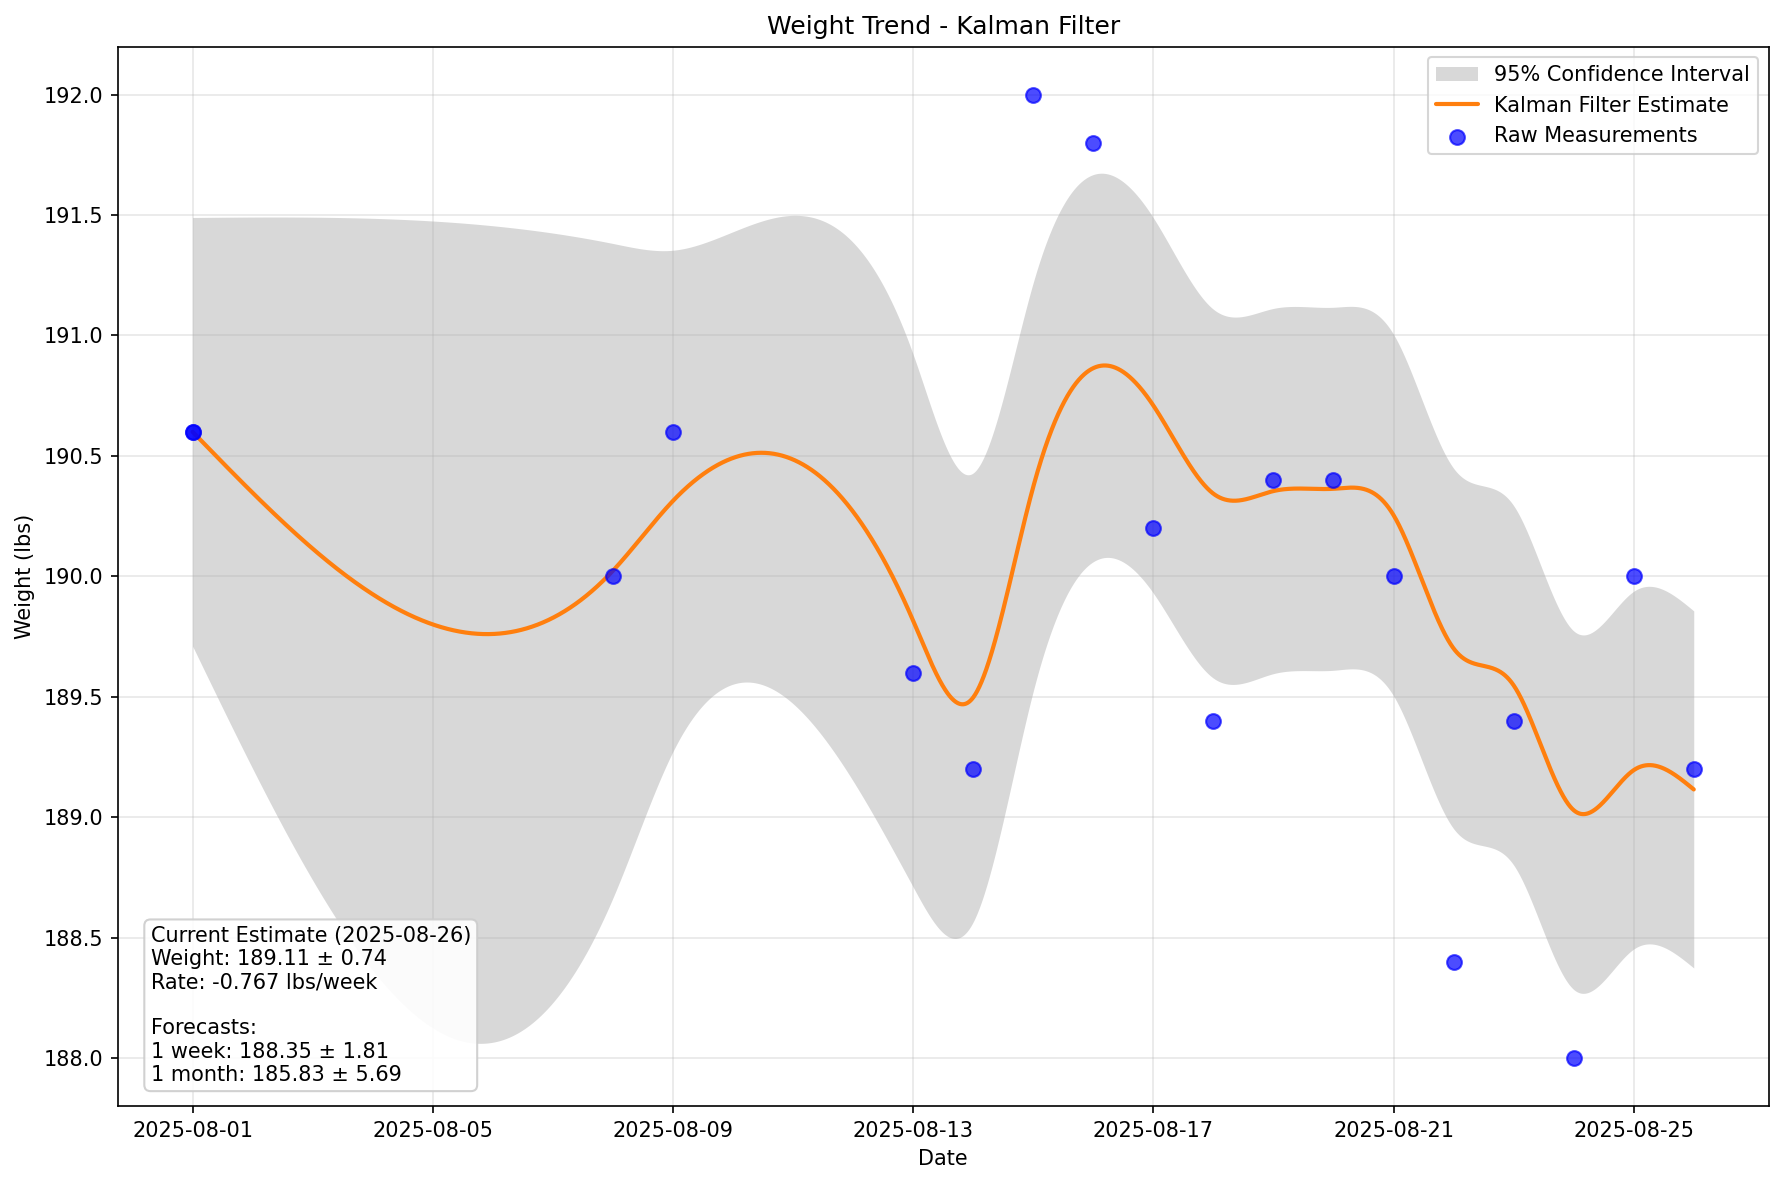
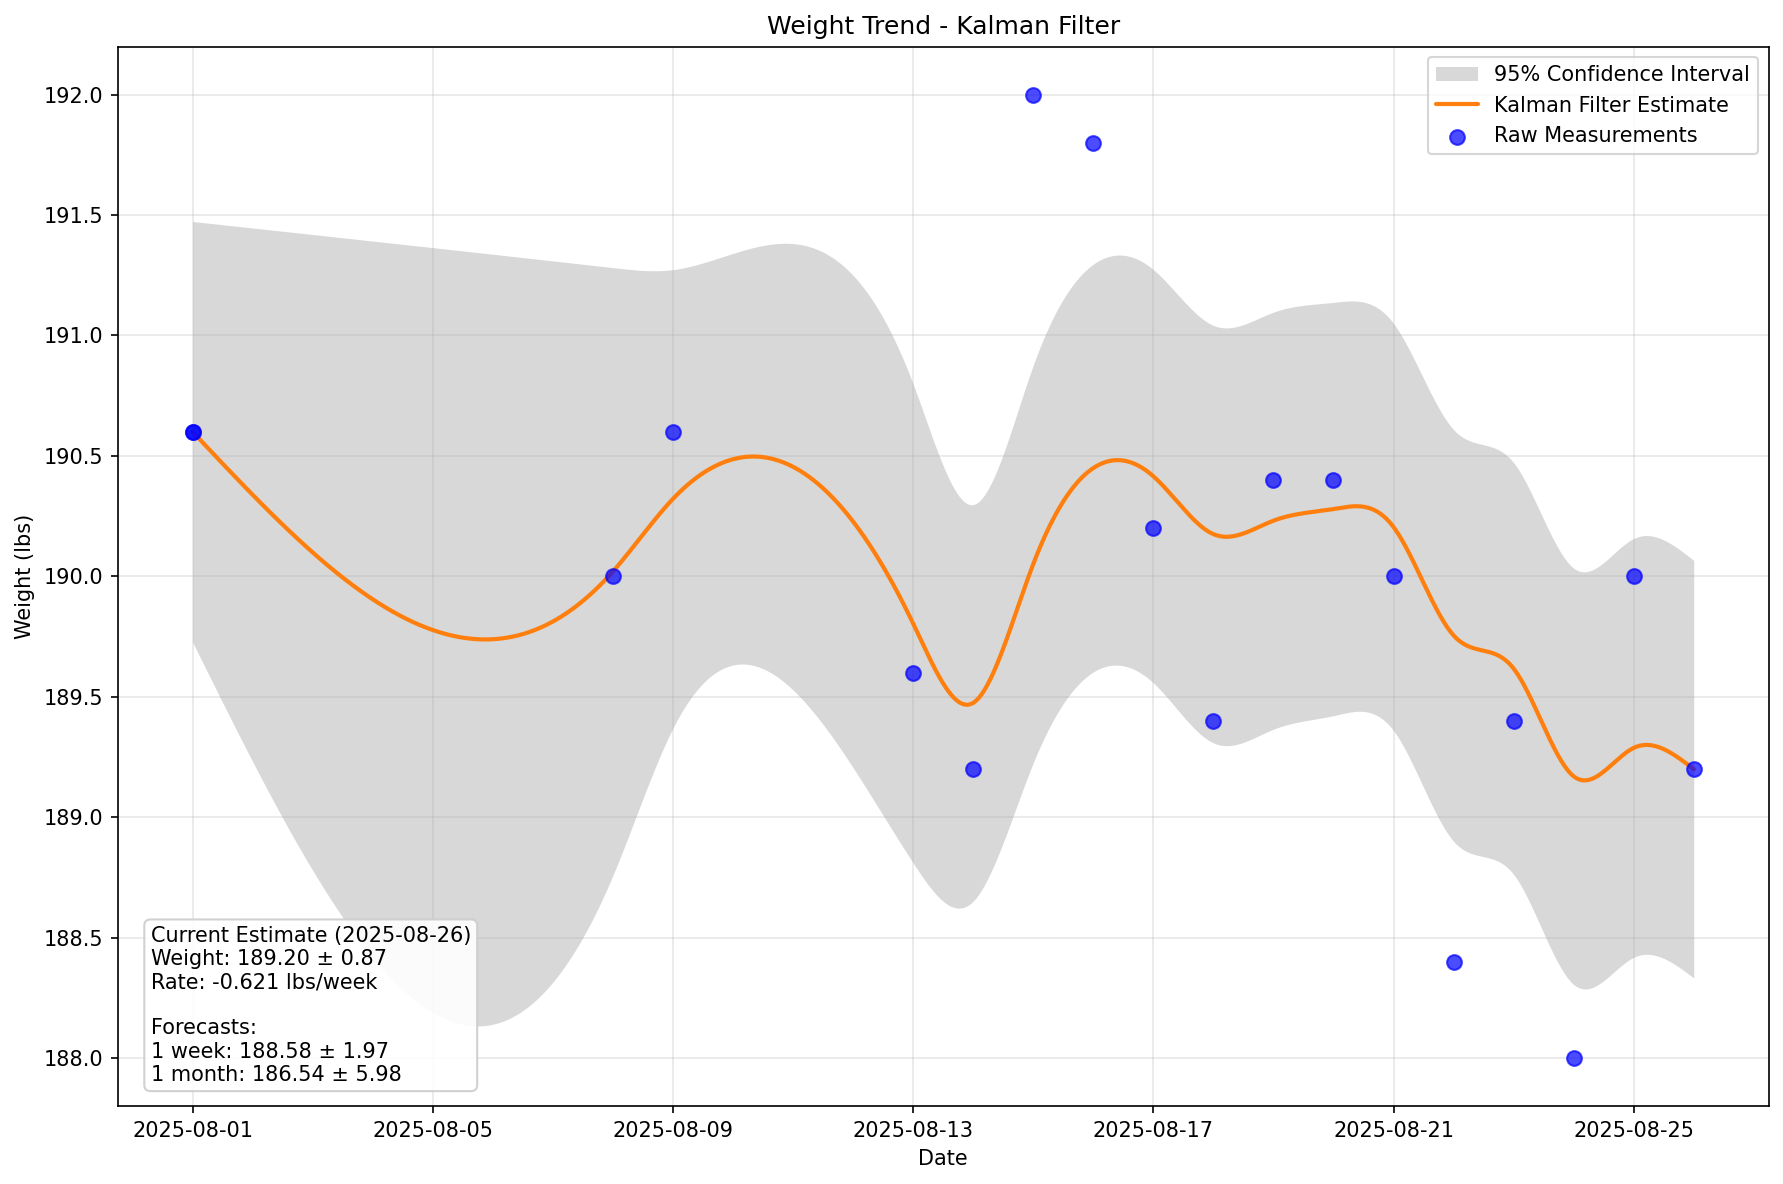
kalman filtering now the default

diff --git a/weight_tracker.py b/weight_tracker.py
@@ -338,7 +338,7 @@ def parse_args() -> argparse.Namespace:
     parser.add_argument("--half-life-days", type=float, default=7.0, help="Half-life for time weighting in regression. Default: 7")
     parser.add_argument("--no-plot", action="store_true", help="Do not generate plot image")
     parser.add_argument("--output", default="weight_trend.png", help="Output plot image path. Default: weight_trend.png")
-    parser.add_argument("--kalman-plot", action="store_true", help="Generate Kalman filter plot (kalman_weight_trend.png)")
+    parser.add_argument("--no-kalman-plot", action="store_true", help="Do not generate Kalman filter plot")
     parser.add_argument("--print-table", action="store_true", help="Print table of date, weight, EMA")
     # Body fat baseline parameters (used only when --kalman-plot is enabled)
     parser.add_argument("--bf-baseline-lean", type=float, default=150.0,
@@ -395,7 +395,7 @@ def main() -> None:
     print(f"  per day:  {slope_per_day:+.4f}")
     print(f"  per week: {slope_per_week:+.3f}")
     print(f"  per month:{slope_per_month:+.3f}")
-    print(f"Calorie deficit: {7*slope_per_day*3500:+.3f} calories/week")
+    print(f"Calorie deficit: {slope_per_day*3500:+.3f} calories/day")
 
     if args.print_table:
         print("\nDate,Weight,EMA")
@@ -410,15 +410,15 @@ def main() -> None:
             print(f"Failed to render plot: {e}")
     
     # Generate Kalman filter plot if requested
-    if args.kalman_plot:
+    if not args.no_kalman_plot:
         try:
             # Run Kalman filter
             kalman_states, kalman_dates = run_kalman_filter(entries)
             
             if kalman_states:
                 # Create Kalman filter plot
-                create_kalman_plot(entries, kalman_states, kalman_dates, "kalman_weight_trend.png")
-                print("Kalman filter plot saved to: kalman_weight_trend.png")
+                create_kalman_plot(entries, kalman_states, kalman_dates, args.output)
+                print("Kalman filter plot saved to: weight_trend.png")
                 
                 # Create body fat plot using Kalman smoothing
                 from kalman import create_bodyfat_plot_from_kalman
@@ -429,9 +429,9 @@ def main() -> None:
                         kalman_dates,
                         baseline_weight_lb=args.bf_baseline_weight,
                         baseline_lean_lb=args.bf_baseline_lean,
-                        output_path="kalman_bodyfat_trend.png",
+                        output_path="bodyfat_trend.png",
                     )
-                    print("Body fat plot saved to: kalman_bodyfat_trend.png")
+                    print("Body fat plot saved to: bodyfat_trend.png")
                 except Exception as e:
                     print(f"Failed to generate body fat plot: {e}")
                 
@@ -440,7 +440,7 @@ def main() -> None:
                 print(f"\n=== Kalman Filter Summary ===")
                 print(f"Current weight estimate: {latest_kalman.weight:.2f} ± {1.96 * (latest_kalman.weight_var**0.5):.2f}")
                 print(f"Current rate: {7*latest_kalman.velocity:+.3f} lbs/week")
-                print(f"Calorie deficit: {7*latest_kalman.velocity*3500:+.3f} calories/week")
+                print(f"Calorie deficit: {latest_kalman.velocity*3500:+.3f} calories/day")
                 
                 # Calculate forecasts
                 from kalman import WeightKalmanFilter

diff --git a/kalman.py b/kalman.py
@@ -65,6 +65,10 @@ class WeightKalmanFilter:
         # Measurement model and noise
         self.H = np.array([[1.0, 0.0]], dtype=float)
         self.R = np.array([[self.measurement_noise]], dtype=float)
+        # Adaptive measurement noise (EWMA on innovation variance)
+        self.R_adapt = float(self.measurement_noise)
+        self.R_alpha = 0.05
+        self.adaptive_measurement_noise = True
         
         # Expose a convenience dataclass mirror for external access
         self.state = KalmanState(
@@ -109,6 +113,14 @@ class WeightKalmanFilter:
         # Innovation
         z = np.array([[float(measurement)]], dtype=float)
         y = z - self.H @ self.x.reshape(-1, 1)
+        # Adapt measurement noise from innovation statistics (pre-update)
+        if self.adaptive_measurement_noise:
+            # S_est ≈ y^2, so R_est ≈ S_est - HPH^T
+            S_est = float(y @ y.T)
+            HPH = float(self.H @ self.P @ self.H.T)
+            R_est = max(1e-8, S_est - HPH)
+            self.R_adapt = (1.0 - self.R_alpha) * self.R_adapt + self.R_alpha * R_est
+            self.R = np.array([[self.R_adapt]], dtype=float)
         S = self.H @ self.P @ self.H.T + self.R
         K = self.P @ self.H.T @ np.linalg.inv(S)
         
